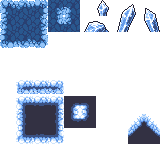
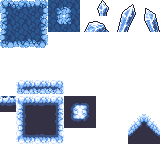
아이스 보스맵 밑 여러 맵 추가

Changed region(s): [[0.0, 0.5938, 0.125, 0.7188]]

diff --git a/Dungreed/StageManager.cpp b/Dungreed/StageManager.cpp
@@ -11,8 +11,8 @@
 
 void StageManager::init()
 {
-	//_currStageType = STAGE_TYPE::TEST;
-	_currStageType = STAGE_TYPE::VILLAGE;
+	_currStageType = STAGE_TYPE::TEST;
+	//_currStageType = STAGE_TYPE::VILLAGE;
 	
 	makeStage();
 
@@ -24,7 +24,7 @@ void StageManager::init()
 	l = RANDOM->getFromIntTo(4, 6);
 	_currIndexX = k;
 	_currIndexY = l;
-	
+	makeNum = 0;
 }
 
 void StageManager::release()
@@ -113,8 +113,8 @@ void StageManager::moveRoom()
 {
 	_currIndexX += 1;
 	
-	/*_vStage[_currIndexX][_currIndexY]->setStageManager(this);
-	_vStage[_currIndexX][_currIndexY]->init();*/
+	_vStage[_currIndexX][_currIndexY]->setStageManager(this);
+	_vStage[_currIndexX][_currIndexY]->init();
 
 
 	//_currIndexY += 1;
@@ -152,7 +152,13 @@ void StageManager::makeStage()
 		//int indexY = RANDOM->getFromIntTo(4, 6);
 
 		_vStage[k][l] = _currStage;
-		makeRoom(k, l);
+		for (int i = 0; i < _vStage.size(); i++)
+		{
+			makeRoom(k+i, l+i);
+		}
+		/*makeRoom(k, l);
+		makeRoom(k+1, l+1);*/
+
 		_vStage[_currIndexX][_currIndexY]->setStageManager(this);
 		_vStage[_currIndexX][_currIndexY]->init();
 		//_vStage[k][l]->setIsMade(true);
@@ -199,52 +205,51 @@ void StageManager::makeRoom(int x1, int y1)
 	makeNum++;
 
 
-	if (_vStage[x1][y1]->getOpenDirection(0))
-	{
-		//if (_vStage[x1 - 1][y1]->getIsMade())return;
-		Stage* newStage;
-		if (rnd == 0)_stage2 = new Room20LTRB();
-		else if (rnd == 1)_stage2 = new Room2LTR();
-		else if (rnd == 2)_stage2 = new Room4LR();
-		else if (rnd == 3)_stage2 = new Room21LR();
-		else if (rnd == 4)_stage2 = new Room22LTRB();
-		else _stage2 = new Room20LTRB();
-		_stage2->setStageManager(this);
-		_stage2->init();
-		//_stage2->setIsMade(true);
+	//if (_vStage[x1][y1]->getOpenDirection(0))
+	//{
+	//	//if (_vStage[x1 - 1][y1]->getIsMade())return;
+	//	Stage* newStage;
+	//	if (rnd == 0)_stage2 = new Room20LTRB();
+	//	else if (rnd == 1)_stage2 = new Room2LTR();
+	//	else if (rnd == 2)_stage2 = new Room4LR();
+	//	else if (rnd == 3)_stage2 = new Room21LR();
+	//	else if (rnd == 4)_stage2 = new Room22LTRB();
+	//	else _stage2 = new Room20LTRB();
+	//	_stage2->setStageManager(this);
+	//	_stage2->init();
+	//	//_stage2->setIsMade(true);
 
-		int makeIndexX=x1-1;
-		int makeIndexY=y1;
-		_vStage[makeIndexX][makeIndexY] = _stage2;
-		//_currStage = _stage;
-		makeRoom(makeIndexX, makeIndexY);
+	//	int makeIndexX=x1-1;
+	//	int makeIndexY=y1;
+	//	_vStage[makeIndexX][makeIndexY] = _stage2;
+	//	//_currStage = _stage;
+	//	makeRoom(makeIndexX, makeIndexY);
 
-	}
-	if (_vStage[x1][y1]->getOpenDirection(1))
-	{
-		//if (_vStage[x1][y1-1]->getIsMade())return;
-		if (rnd == 0)_stage2 = new Room20LTRB;
-		else if (rnd == 1)_stage2 = new Room22LTRB;
-		else if (rnd == 2)_stage2 = new Room2LTR;
-		else _stage2 = new Room20LTRB;
-		_stage2->setStageManager(this);
-		_stage2->init();
-		//_stage2->setIsMade(true);
+	//}
+	//if (_vStage[x1][y1]->getOpenDirection(1))
+	//{
+	//	//if (_vStage[x1][y1-1]->getIsMade())return;
+	//	if (rnd == 0)_stage2 = new Room20LTRB;
+	//	else if (rnd == 1)_stage2 = new Room22LTRB;
+	//	else if (rnd == 2)_stage2 = new Room2LTR;
+	//	else _stage2 = new Room20LTRB;
+	//	_stage2->setStageManager(this);
+	//	_stage2->init();
+	//	//_stage2->setIsMade(true);
 
-		int makeIndexX = x1 ;
-		int makeIndexY = y1-1;
-		_vStage[makeIndexX][makeIndexY] = _stage2;
-		//_currStage = _stage;
-	}
-	if (_vStage[x1][y1]->getOpenDirection(2))
-	{
+	//	int makeIndexX = x1 ;
+	//	int makeIndexY = y1-1;
+	//	_vStage[makeIndexX][makeIndexY] = _stage2;
+	//	//_currStage = _stage;
+	//}
+	
 		//if (_vStage[x1+1][y1]->getIsMade())return;
 		if (_currIndexX + 1 == 9)
 		{
 			_stage = new Room8L;
 			_stage2->setStageManager(this);
 			_stage2->init();
-			_stage2->setIsMade(true);
+			//_stage2->setIsMade(true);
 		}
 		else
 		{
@@ -260,30 +265,30 @@ void StageManager::makeRoom(int x1, int y1)
 		}
 		int makeIndexX = x1 + 1;
 		int makeIndexY=y1;
-		_vStage[makeIndexX][makeIndexY] = _stage2;
+		_vStage[x1 + 1][y1] = _stage2;
 
-		makeRoom(makeIndexX, makeIndexY);
+		//makeRoom(makeIndexX, makeIndexY);
 		//_currStage = _stage;
 		
-	}
+	
 
-	if (_vStage[x1][y1]->getOpenDirection(3))
-	{
-		//if (_vStage[x1][y1+1]->getIsMade())return;
-		if (rnd == 0)_stage2 = new Room20LTRB;
-		else if (rnd == 1)_stage2 = new Room22LTRB;
-		else if (rnd == 2)_stage2 = new Room2LTR;
-		else _stage2 = new Room20LTRB;
-		_stage2->setStageManager(this);
-		_stage2->init();
-		//_stage2->setIsMade(true);
-		int makeIndexX = x1;
-		int makeIndexY = y1+1;
-		_vStage[makeIndexX][makeIndexY] = _stage2;
+	//if (_vStage[x1][y1]->getOpenDirection(3))
+	//{
+	//	//if (_vStage[x1][y1+1]->getIsMade())return;
+	//	if (rnd == 0)_stage2 = new Room20LTRB;
+	//	else if (rnd == 1)_stage2 = new Room22LTRB;
+	//	else if (rnd == 2)_stage2 = new Room2LTR;
+	//	else _stage2 = new Room20LTRB;
+	//	_stage2->setStageManager(this);
+	//	_stage2->init();
+	//	//_stage2->setIsMade(true);
+	//	int makeIndexX = x1;
+	//	int makeIndexY = y1+1;
+	//	_vStage[makeIndexX][makeIndexY] = _stage2;
 
-		makeRoom(makeIndexX, makeIndexY);
-		//_currStage = _stage;
-	}
+	//	makeRoom(makeIndexX, makeIndexY);
+	//	//_currStage = _stage;
+	//}
 }
 
 

diff --git a/Dungreed/MapTool.cpp b/Dungreed/MapTool.cpp
@@ -290,6 +290,7 @@ void MapTool::setMap()
 								{
 								case 1:
 									if (_tile[index].tileFrameX[_layer] == 2 && _tile[index].tileFrameY[_layer] == 6)_tile[index].linePos = DRAW_LINE_POSITION::TOP;
+									else if (_tile[index].tileFrameX[_layer] == 0 && _tile[index].tileFrameY[_layer] == 6)_tile[index].linePos = DRAW_LINE_POSITION::TOP;
 									else if (_tile[index].tileFrameX[_layer] == 2 && _tile[index].tileFrameY[_layer] == 8)_tile[index].linePos = DRAW_LINE_POSITION::BOTTOM;
 									else if (_tile[index].tileFrameX[_layer] == 3 && _tile[index].tileFrameY[_layer] == 7)_tile[index].linePos = DRAW_LINE_POSITION::RIGHT;
 									else if (_tile[index].tileFrameX[_layer] == 1 && _tile[index].tileFrameY[_layer] == 7)_tile[index].linePos = DRAW_LINE_POSITION::LEFT;
@@ -307,6 +308,7 @@ void MapTool::setMap()
 									break;
 								case 2:
 									if (_tile[index].tileFrameX[_layer] == 2 && _tile[index].tileFrameY[_layer] == 6)_tile[index].linePos = DRAW_LINE_POSITION::TOP;
+									else if (_tile[index].tileFrameX[_layer] == 0 && _tile[index].tileFrameY[_layer] == 6)_tile[index].linePos = DRAW_LINE_POSITION::TOP;
 									else if (_tile[index].tileFrameX[_layer] == 2 && _tile[index].tileFrameY[_layer] == 8)_tile[index].linePos = DRAW_LINE_POSITION::BOTTOM;
 									else if (_tile[index].tileFrameX[_layer] == 3 && _tile[index].tileFrameY[_layer] == 7)_tile[index].linePos = DRAW_LINE_POSITION::RIGHT;
 									else if (_tile[index].tileFrameX[_layer] == 1 && _tile[index].tileFrameY[_layer] == 7)_tile[index].linePos = DRAW_LINE_POSITION::LEFT;

diff --git a/Dungreed/Room5LR.cpp b/Dungreed/Room5LR.cpp
@@ -1,0 +1,29 @@
+#include "Room5LR.h"
+#include "StageManager.h"
+
+void Room5LR::init()
+{
+	Stage::init();
+	_tileImage = IMAGE_MANAGER->findImage("sampleTile1");
+	loadMap("Stage5LR.map");
+	_OpenDirection[0] = true;
+	_OpenDirection[1] = false;
+	_OpenDirection[2] = true;
+	_OpenDirection[3] = false;
+	
+}
+
+void Room5LR::release()
+{
+	Stage::release();
+}
+
+void Room5LR::update(float const elapsedTime)
+{
+	Stage::update(elapsedTime);
+}
+
+void Room5LR::render()
+{
+	Stage::render();
+}

diff --git a/Dungreed/Room6TB.cpp b/Dungreed/Room6TB.cpp
@@ -1,0 +1,27 @@
+#include "Room6TB.h"
+
+void Room6TB::init()
+{
+	Stage::init();
+	_tileImage = IMAGE_MANAGER->findImage("sampleTile1");
+	loadMap("Stage6TB.map");
+	_OpenDirection[0] = false;
+	_OpenDirection[1] = true;
+	_OpenDirection[2] = false;
+	_OpenDirection[3] = true;
+}
+
+void Room6TB::release()
+{
+	Stage::release();
+}
+
+void Room6TB::update(float const elapsedTime)
+{
+	Stage::update(elapsedTime);
+}
+
+void Room6TB::render()
+{
+	Stage::render();
+}

diff --git a/Dungreed/StartRoom2.cpp b/Dungreed/StartRoom2.cpp
@@ -5,8 +5,11 @@ void StartRoom2::init()
 	Stage::init();
 	_tileImage = IMAGE_MANAGER->findImage("sampleTile1");
 	loadMap("StartRoom2.map");
-	_direction.push_back(DIRECTION::RIGHT);
-	_direction.push_back(DIRECTION::DOWN);
+
+	_OpenDirection[0] = false;
+	_OpenDirection[1] = false;
+	_OpenDirection[2] = true;
+	_OpenDirection[3] = true;
 }
 
 void StartRoom2::release()

diff --git a/Dungreed/Room5LR.h b/Dungreed/Room5LR.h
@@ -1,0 +1,11 @@
+#pragma once
+#include "Stage.h"
+class Room5LR :
+	public Stage
+{
+	virtual void init();
+	virtual void release();
+	virtual void update(float const elapsedTime);
+	virtual void render();
+};
+

diff --git a/Dungreed/Room6TB.h b/Dungreed/Room6TB.h
@@ -1,0 +1,11 @@
+#pragma once
+#include "Stage.h"
+class Room6TB :
+	public Stage
+{
+	virtual void init();
+	virtual void release();
+	virtual void update(float const elapsedTime);
+	virtual void render();
+};
+
